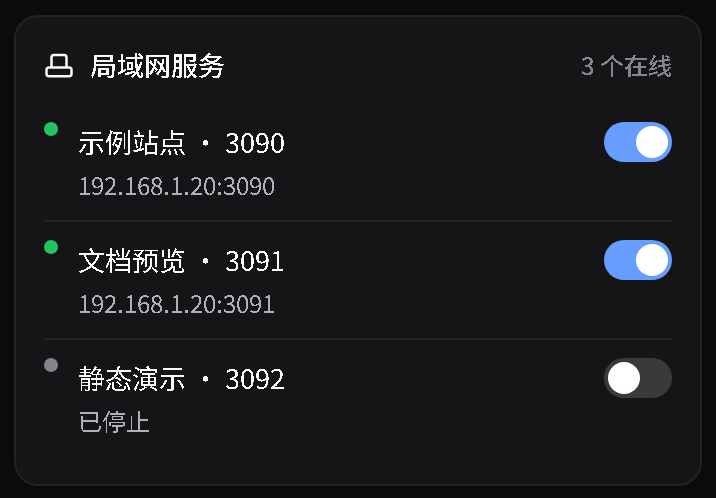
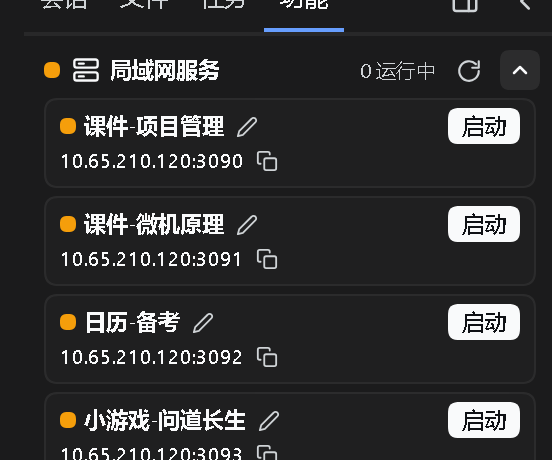
README 与界面图更新：截图改用运行实例实拍，示例内容已脱敏

diff --git a/README.en.md b/README.en.md
@@ -2,9 +2,9 @@
 
 [中文](README.md) · English
 
-![LAN services card in the Extensions tab](assets/dsh-lan-services-en.png)
+![LAN services card in the Extensions tab](assets/dsh-lan-services.png)
 
-*Mockup: layout rendered from the official theme tokens, not a screenshot of a running instance.*
+*Screenshot of a running DSH instance; demo content is sanitized.*
 
 A local network service manager: it probes local HTTP services on ports 3090–3099, lists their titles and LAN URLs in a sidebar panel, starts/stops the processes with one click, and updates the URLs when the network changes.
 

diff --git a/README.md b/README.md
@@ -2,9 +2,9 @@
 
 [English](README.en.md) · 中文
 
-![功能栏局域网服务卡片界面示意](assets/dsh-lan-services.png)
+![功能栏局域网服务卡片界面实拍](assets/dsh-lan-services.png)
 
-*界面示意：按官方主题变量渲染的版式，非实机截图。*
+*界面实拍：截自本机运行中的 DSH 实例，示例内容已脱敏。*
 
 局域网服务管理器：自动探测 3090~3099 端口段上的本地 HTTP 服务，左栏面板列出标题与局域网网址，一键启停进程，换网络后网址自动更新。
 
